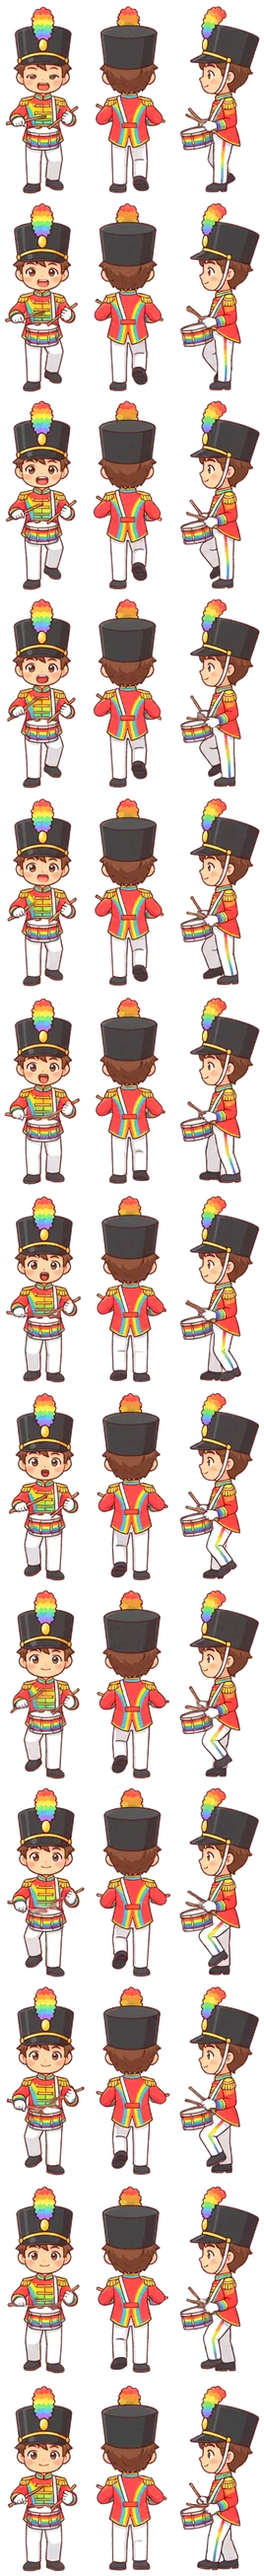
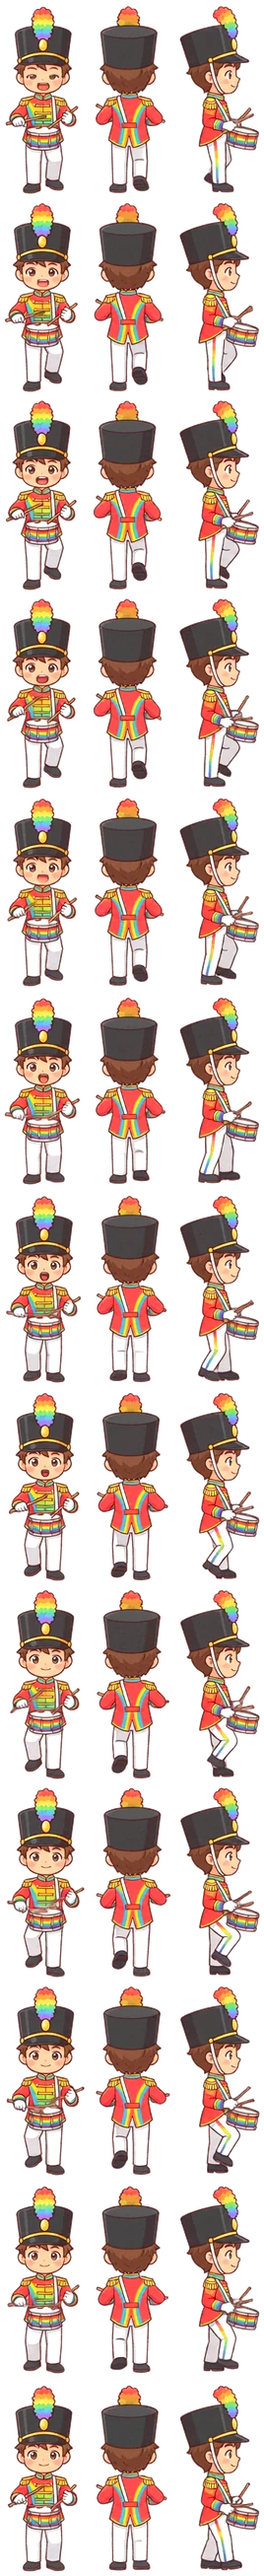
캐릭터가 뒤로 걷던 문제 고치기: 제미나이 걷기 GIF 옆모습이 왼쪽을 보는 9명(F1·F2·R1·R2·R4 남녀, R5 남자)을 좌우로 뒤집기
걷기 GIF 를 만들 때 얼굴 피부색이 머리의 어느 쪽에 있는지로 옆모습 방향을 재고, 서 있는 그림과 반대면 자동으로 뒤집음(tools/build_teachers.py 의 face_side)

Changed region(s): [[0.6866, 0.0, 0.9851, 1.0]]

diff --git a/js/data/character-sprites.js b/js/data/character-sprites.js
@@ -21,7 +21,7 @@ window.MP_CHAR_SPRITES = {
      4,
      67,
      150,
-     34.0,
+     32.0,
      150
     ],
     "up": [
@@ -112,7 +112,7 @@ window.MP_CHAR_SPRITES = {
      4,
      67,
      151,
-     34.0,
+     32.0,
      151
     ],
     "up": [
@@ -203,7 +203,7 @@ window.MP_CHAR_SPRITES = {
      4,
      71,
      158,
-     36.0,
+     34.0,
      158
     ],
     "up": [
@@ -294,7 +294,7 @@ window.MP_CHAR_SPRITES = {
      4,
      73,
      158,
-     39.0,
+     33.0,
      158
     ],
     "up": [
@@ -385,7 +385,7 @@ window.MP_CHAR_SPRITES = {
      4,
      82,
      192,
-     38.0,
+     43.0,
      192
     ],
     "up": [
@@ -476,7 +476,7 @@ window.MP_CHAR_SPRITES = {
      4,
      96,
      194,
-     39.0,
+     56.0,
      194
     ],
     "up": [
@@ -749,7 +749,7 @@ window.MP_CHAR_SPRITES = {
      4,
      90,
      151,
-     50.0,
+     39.0,
      151
     ],
     "up": [
@@ -840,7 +840,7 @@ window.MP_CHAR_SPRITES = {
      4,
      87,
      151,
-     48.0,
+     38.0,
      151
     ],
     "up": [
@@ -931,7 +931,7 @@ window.MP_CHAR_SPRITES = {
      4,
      83,
      151,
-     39.0,
+     43.0,
      151
     ],
     "up": [
@@ -1847,4 +1847,4 @@ window.MP_CHAR_SPRITES = {
   }
  }
 };
-window.MP_CHAR_VER = '20261120104529';
+window.MP_CHAR_VER = '20261120131843';

diff --git a/tools/build_teachers.py b/tools/build_teachers.py
@@ -163,6 +163,31 @@ def best_loop(frames, minlen=10):
     return best[1], best[2]
 
 
+def face_side(im):
+    """옆모습이 보는 쪽: 머리(위 32%)에서 얼굴 피부색 픽셀의 가운데가 머리 가운데보다 오른쪽이면 +, 왼쪽이면 -.
+    (머리카락·모자는 뒤통수 쪽에 많고 얼굴 피부는 보는 쪽에 있음)"""
+    a = np.asarray(im.convert('RGBA')).astype(float)
+    ys = np.where((a[..., 3] > 100).any(axis=1))[0]
+    if not len(ys):
+        return 0.0
+    top = ys.min()
+    head = a[top:top + max(1, int((ys.max() - top) * 0.32))]
+    al = head[..., 3] > 100
+    r, g, b = head[..., 0], head[..., 1], head[..., 2]
+    skin = al & (r > 200) & (g > 150) & (b > 110) & (r - b > 30) & (r - g < 70)
+    xs, sx = np.where(al)[1], np.where(skin)[1]
+    if len(sx) < 20 or not len(xs):
+        return 0.0
+    return float((sx.mean() - xs.mean()) / (xs.max() - xs.min() + 1))
+
+
+def faces_other_way(im, st, r):
+    """걷기 옆모습(im)이 서 있는 옆모습(st 의 칸 r)과 반대쪽을 보는지(얼굴 피부색 위치로 판단)."""
+    ref = Image.fromarray(np.asarray(st)[r[1]:r[1] + r[3], r[0]:r[0] + r[2]])
+    a, b = face_side(im), face_side(ref)
+    return a * b < 0
+
+
 def build_anim(base, path, meta, out_dir=None, web='assets/teachers/', enh=None, by_height=False):
     """움직이는 GIF(앞·뒤·옆 3칸이 함께 걷는 그림) → 한 걸음 묶음을 프레임 시트로.
     시트: 줄 = 프레임, 칸 = down·up·right. 칸마다 모든 프레임에 같은 자르기 상자를 써서 흔들림이 없게 함."""
@@ -221,10 +246,18 @@ def build_anim(base, path, meta, out_dir=None, web='assets/teachers/', enh=None,
     for i, v in enumerate(VIEWS):
         y0, y1, x0, x1 = boxes[i]
         first = Image.fromarray(rgbas[0][y0:y1, x0:x1]).resize((cw[i], ch[i]), Image.LANCZOS)
+        # 옆모습 방향: 게임은 옆모습이 오른쪽을 본다고 보고 그림(왼쪽으로 갈 때 뒤집음).
+        # 제미나이 GIF 는 왼쪽을 보는 것도 있어서, 서 있는 그림의 옆모습과 견줘 반대면 좌우로 뒤집음
+        flip = v == 'right' and faces_other_way(first, st, meta[base]['views']['right'])
+        if flip:
+            first = first.transpose(Image.FLIP_LEFT_RIGHT)
+            print(base, '걷기 GIF 옆모습이 왼쪽을 봐서 뒤집음')
         fx = body_x(np.array(first))
         views[v] = [colX[i], PAD, cw[i], ch[i], round(fx, 1), ch[i]]
         for k in range(n):
             im = Image.fromarray(rgbas[k][y0:y1, x0:x1]).resize((cw[i], ch[i]), Image.LANCZOS)
+            if flip:
+                im = im.transpose(Image.FLIP_LEFT_RIGHT)
             sheet.paste(im, (colX[i], PAD + k * rowH))
     sheet = (enh or enhance)(sheet)
     out = base + '-anim.webp'
